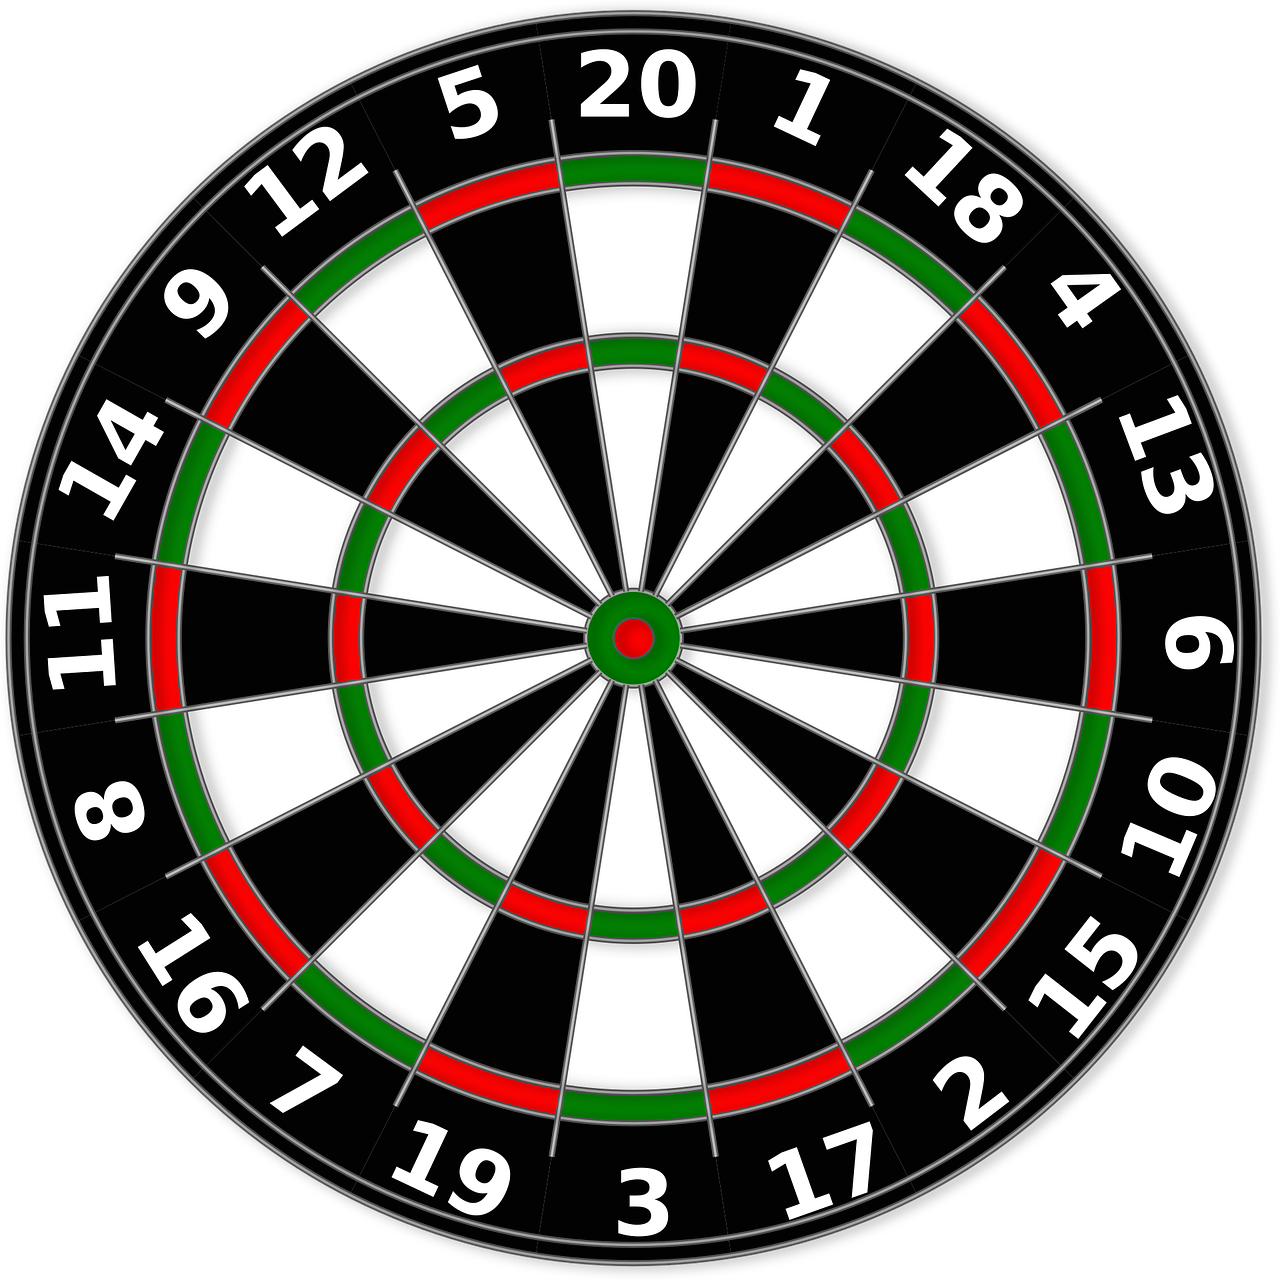
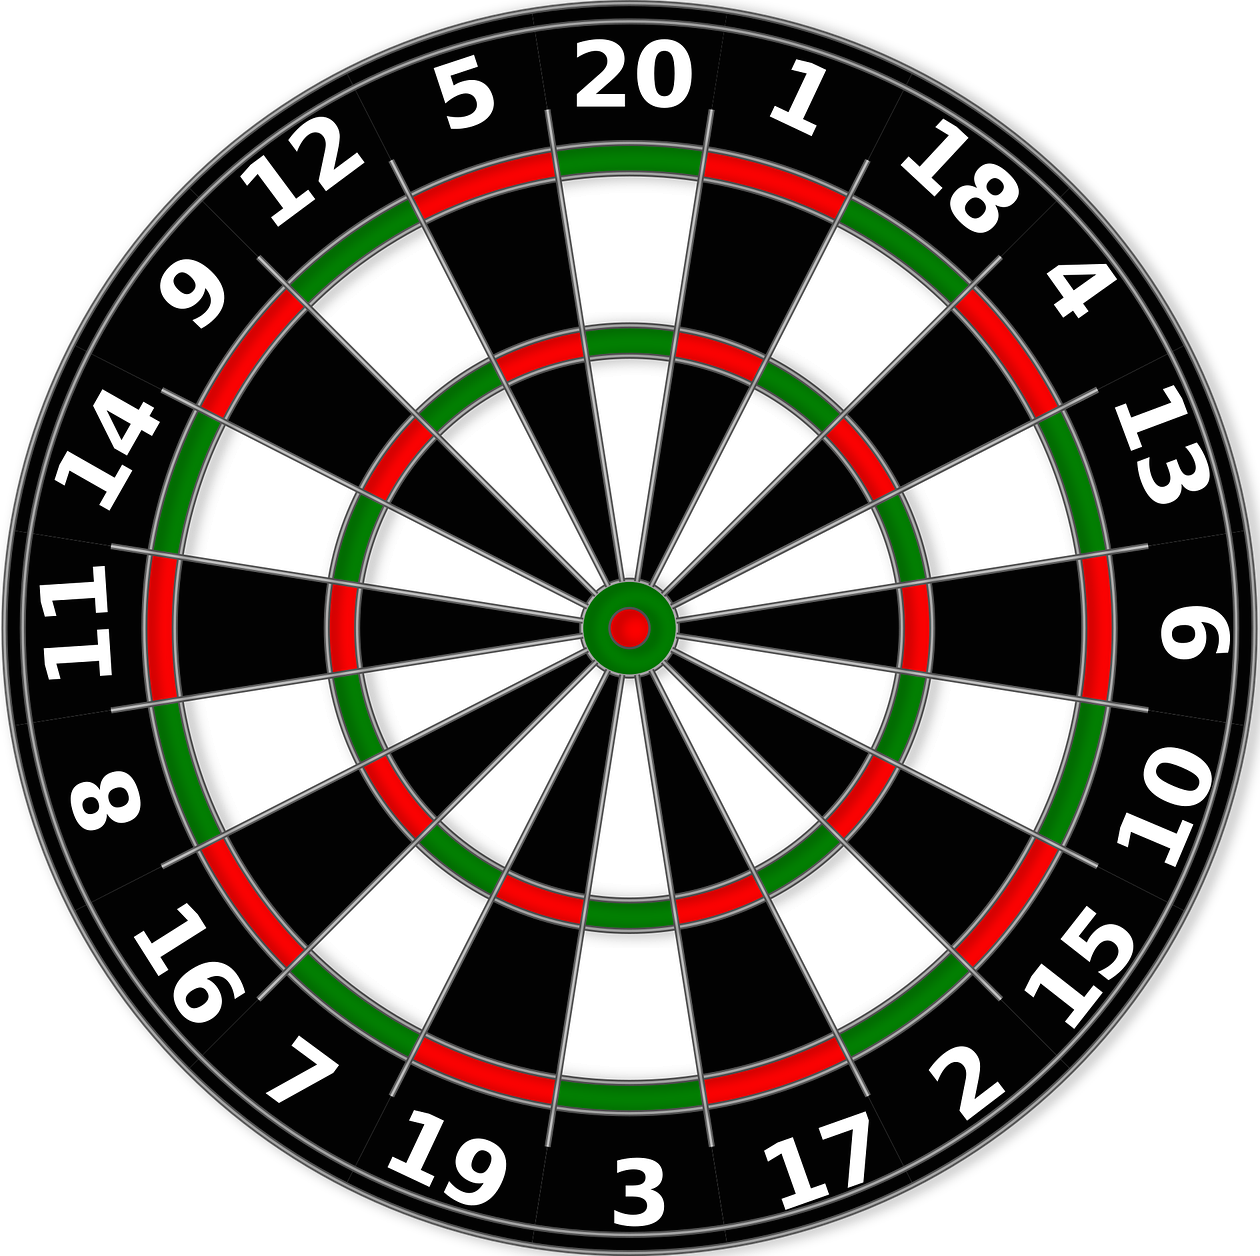
Fix selecting score by touch

diff --git a/Dartmania/Dartmania/Dartmania/Views/DartboardPage.xaml.cs b/Dartmania/Dartmania/Dartmania/Views/DartboardPage.xaml.cs
@@ -53,14 +53,14 @@ namespace Dartmania.Views
 
         private void OnTouching(object sender, SKTouchEventArgs e)
         {
-            float ratio = height / width;
+            float ratioH = height / width;
 
             switch (e.ActionType)
             {
                 case SKTouchAction.Pressed:
                     var cords = e.Location;
                     var x = Remap(e.Location.X, 0, width, - 200, 200);
-                    var y = Remap(e.Location.Y, 0, height , - 200 * ratio, 200 * ratio) * -1;
+                    var y = Remap(e.Location.Y, 0, height , - 200 * (float)1.15, 200 * (float)1.15) * -1;
                     var distance = calculateDistance(x, y);
                     var angle = calculateAngle(y, x) * 180/Math.PI;
                     if (angle < 0) angle += 360;
@@ -117,10 +117,10 @@ namespace Dartmania.Views
         public int distanceToMulitply(float distance) 
         {
             int multiply;
-            if (distance >= 17.3 && distance < 100.5) multiply = 1;
-            else if (distance >= 100.5 && distance < 111.7) multiply = 3;
-            else if (distance >= 111.7 && distance < 167.6) multiply = 1;
-            else if (distance >= 167.6 && distance < 180) multiply = 2;
+            if (distance >= 14.35 && distance < 86.32) multiply = 1;
+            else if (distance >= 86.32 && distance < 97.2) multiply = 3;
+            else if (distance >= 97.2 && distance < 145) multiply = 1;
+            else if (distance >= 145 && distance < 160) multiply = 2;
             else multiply = 0;
 
             return multiply;
@@ -129,8 +129,8 @@ namespace Dartmania.Views
         {
             float score = a * b;
 
-            if (distance <= 7.3) return 50;
-            else if (distance > 7.3 && distance <= 17.3) return 25;
+            if (distance <= 6) return 50;
+            else if (distance > 6 && distance <= 14.35) return 25;
 
             return score;
         }
